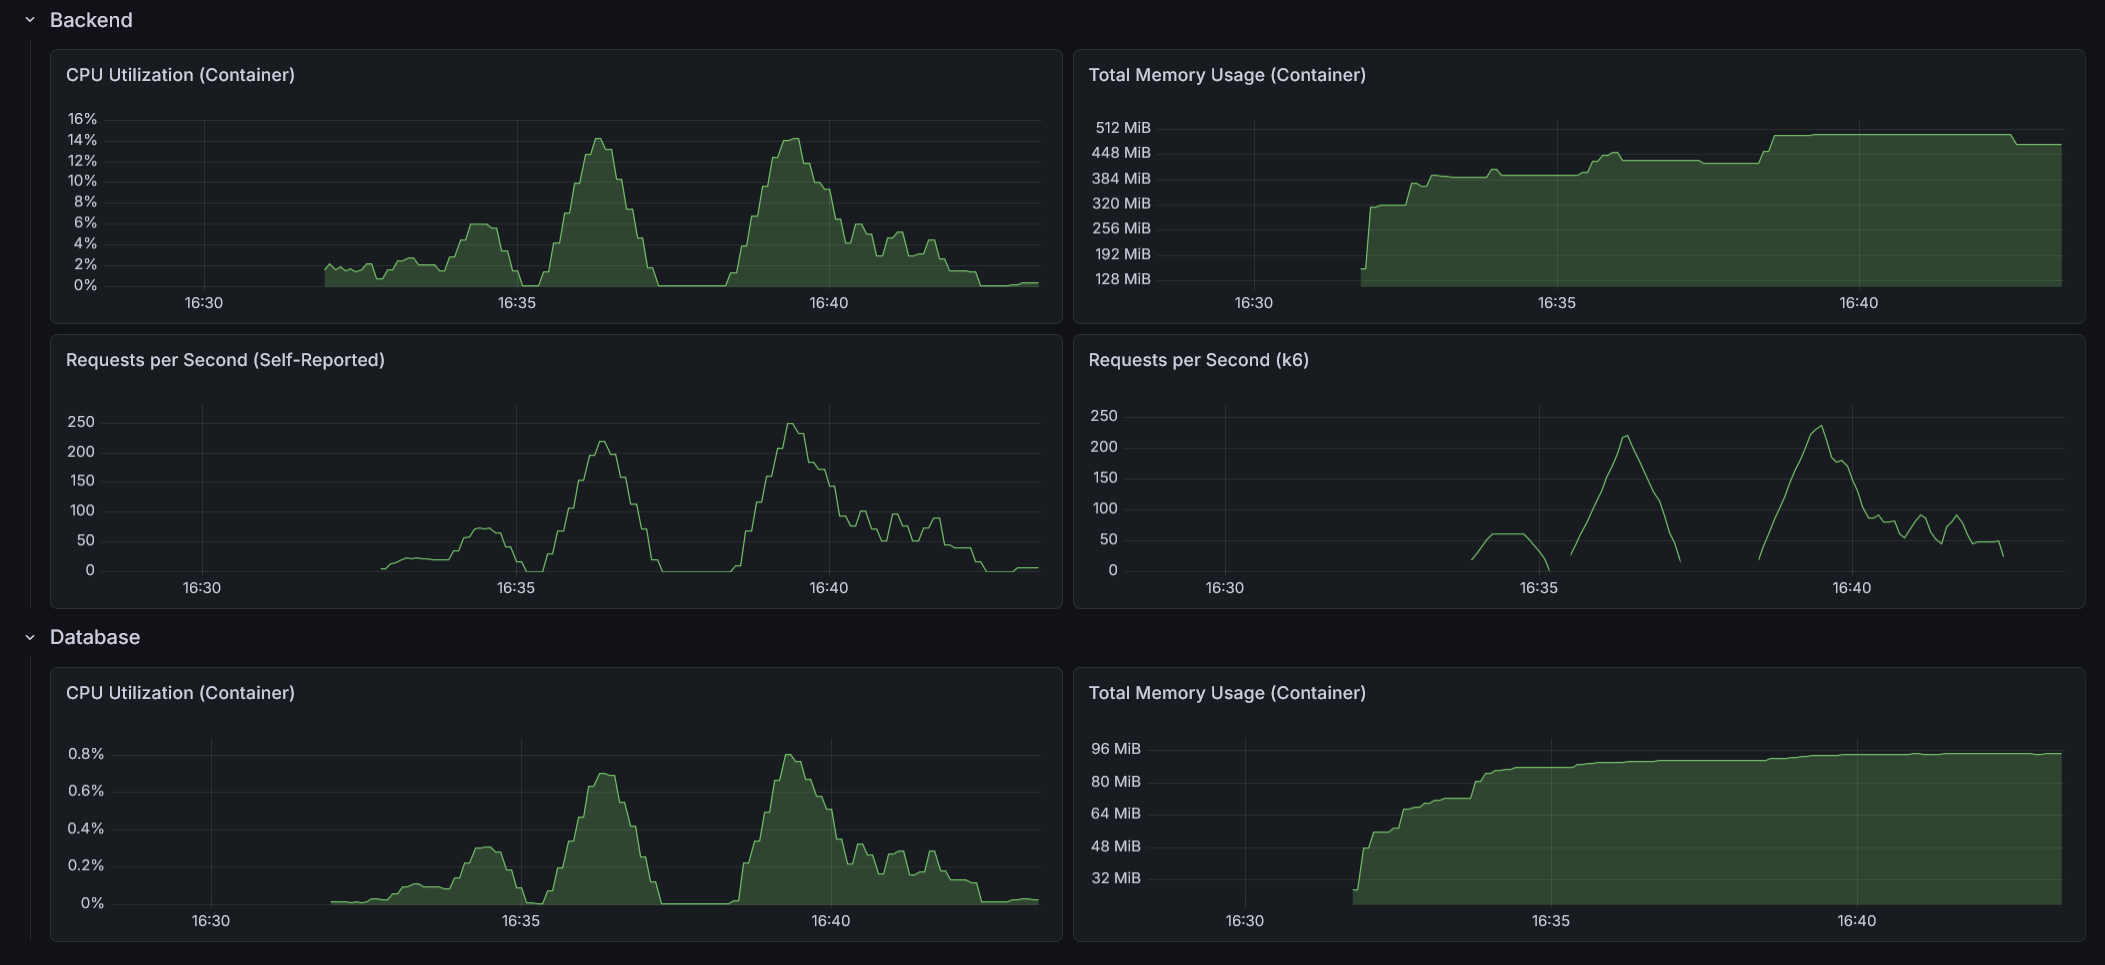
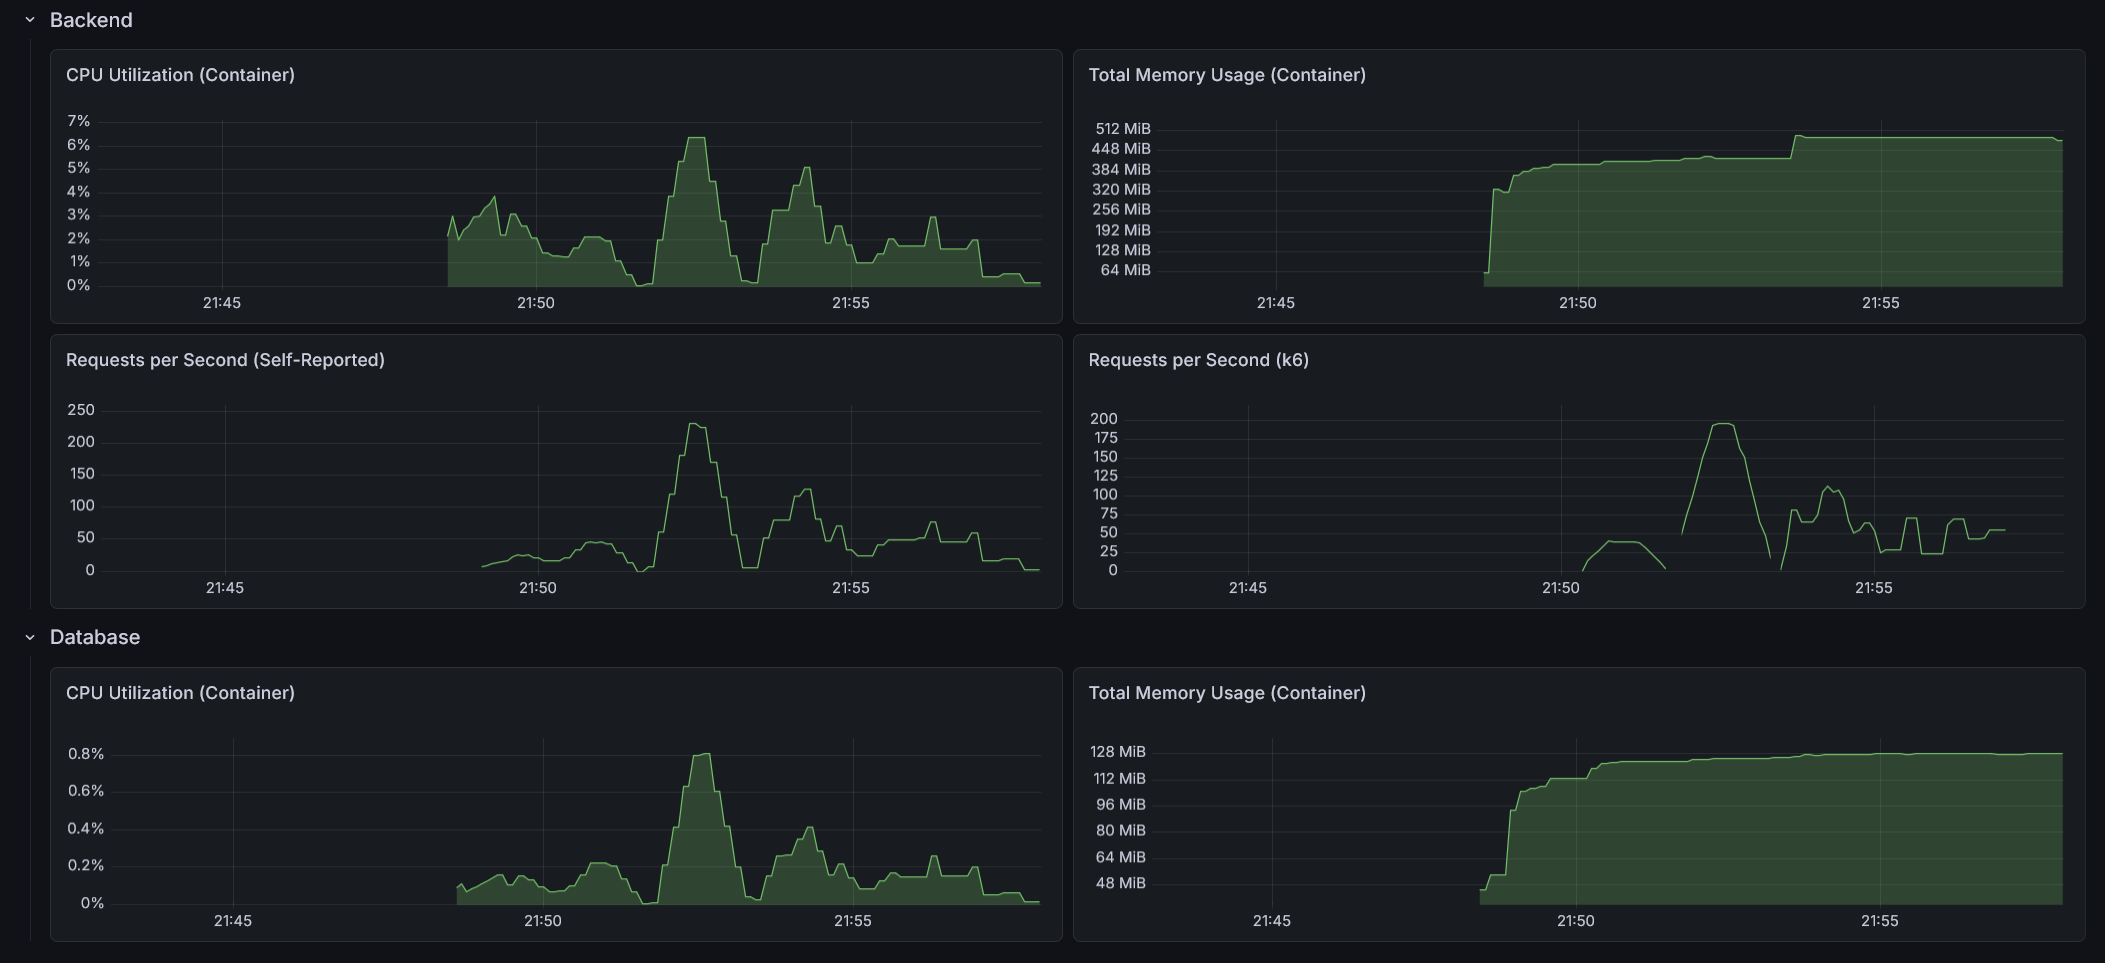
Updated performance test results

diff --git a/backend/java-springboot-vertical/README.md b/backend/java-springboot-vertical/README.md
@@ -74,12 +74,16 @@ Individual Unit and Integration tests within this module are largely derivative 
 
 ## Performance
 
+- Max CPU Utilization: 6.39%
+- Max Memory Usage: 496 MiB
+- Max Requests per Second: 232 / 197
+
 ![performance.png](performance.png)
 
 ### API test suite
 
-- On startup: 3.00s
-- After 10 warm-up runs: 1.34s
+- On startup: 3.3s
+- After 10 warm-up runs: 1.38s
 - After load test: 1.06s
 
 ### Load test suite
@@ -87,101 +91,105 @@ Individual Unit and Integration tests within this module are largely derivative 
 #### Light load (10 VUs / 30s)
 
     HTTP
-    http_req_duration..............: avg=24.42ms min=1.29ms  med=8.12ms  max=457.31ms p(90)=73.46ms  p(95)=101.01ms
-      { expected_response:true }...: avg=24.42ms min=1.29ms  med=8.12ms  max=457.31ms p(90)=73.46ms  p(95)=101.01ms
-      { name:AddComment }..........: avg=11.12ms min=4.59ms  med=8.05ms  max=50.4ms   p(90)=20.1ms   p(95)=28.63ms 
-      { name:CreateArticle }.......: avg=13.75ms min=5.28ms  med=9.89ms  max=91.36ms  p(90)=24.14ms  p(95)=36.78ms 
-      { name:DeleteArticle }.......: avg=8.97ms  min=3.91ms  med=7.39ms  max=35.88ms  p(90)=15.66ms  p(95)=18.15ms 
-      { name:DeleteComment }.......: avg=8.97ms  min=3.69ms  med=7.03ms  max=27.84ms  p(90)=16.59ms  p(95)=20.92ms 
-      { name:FavoriteArticle }.....: avg=11.3ms  min=4.37ms  med=8.13ms  max=44.25ms  p(90)=21.04ms  p(95)=27.72ms 
-      { name:FollowUser }..........: avg=7.91ms  min=3.31ms  med=5.97ms  max=27.81ms  p(90)=13.64ms  p(95)=17.74ms 
-      { name:GetArticle }..........: avg=6.12ms  min=2.32ms  med=4.38ms  max=30.18ms  p(90)=11.42ms  p(95)=15.59ms 
-      { name:GetArticlesFeed }.....: avg=4.92ms  min=1.8ms   med=3.53ms  max=22.66ms  p(90)=9.4ms    p(95)=12.5ms  
-      { name:GetComments }.........: avg=6.62ms  min=2.39ms  med=4.71ms  max=44.17ms  p(90)=11.89ms  p(95)=17.1ms  
-      { name:GetCurrentUser }......: avg=4.45ms  min=1.55ms  med=3.16ms  max=18.76ms  p(90)=7.98ms   p(95)=12.62ms 
-      { name:GetGlobalArticles }...: avg=20.13ms min=8.56ms  med=15.71ms max=75.18ms  p(90)=36.64ms  p(95)=44.08ms 
-      { name:GetTags }.............: avg=4.34ms  min=1.29ms  med=2.97ms  max=17.23ms  p(90)=8.98ms   p(95)=11.37ms 
-      { name:Login }...............: avg=94.5ms  min=60.08ms med=76.17ms max=374ms    p(90)=153.3ms  p(95)=187.71ms
-      { name:Register }............: avg=96.52ms min=62.93ms med=75.83ms max=457.31ms p(90)=151.22ms p(95)=189.38ms
-      { name:UnfavoriteArticle }...: avg=11.46ms min=4.22ms  med=8.7ms   max=45.09ms  p(90)=21.46ms  p(95)=26.56ms 
-      { name:UnfollowUser }........: avg=7.61ms  min=3.37ms  med=6.49ms  max=28.56ms  p(90)=13.08ms  p(95)=15.36ms 
-    http_req_failed................: 0.00%  0 out of 3689
-    http_reqs......................: 3689   118.022915/s
+    http_req_duration..............: avg=8.89ms  min=1.41ms  med=5.9ms   max=233.01ms p(90)=12.5ms  p(95)=19.17ms 
+      { expected_response:true }...: avg=8.89ms  min=1.41ms  med=5.9ms   max=233.01ms p(90)=12.46ms p(95)=19.18ms 
+      { name:AddComment }..........: avg=8.88ms  min=5.02ms  med=7.02ms  max=46.56ms  p(90)=12.13ms p(95)=15.75ms 
+      { name:CreateArticle }.......: avg=12.16ms min=6.65ms  med=8.88ms  max=149.53ms p(90)=13.83ms p(95)=16.92ms 
+      { name:DeleteArticle }.......: avg=7.13ms  min=4.07ms  med=5.64ms  max=25.13ms  p(90)=11.81ms p(95)=14.11ms 
+      { name:DeleteComment }.......: avg=6.64ms  min=4.21ms  med=5.51ms  max=24.61ms  p(90)=10.46ms p(95)=11.94ms 
+      { name:FavoriteArticle }.....: avg=8.5ms   min=5.27ms  med=6.94ms  max=33.49ms  p(90)=12.57ms p(95)=16.68ms 
+      { name:FollowUser }..........: avg=6.41ms  min=3.68ms  med=5.39ms  max=30.85ms  p(90)=8.62ms  p(95)=11.07ms 
+      { name:GetArticle }..........: avg=4.5ms   min=2.24ms  med=3.8ms   max=29.16ms  p(90)=6.05ms  p(95)=7.71ms  
+      { name:GetArticlesFeed }.....: avg=3.8ms   min=2.22ms  med=3.07ms  max=22.17ms  p(90)=5.53ms  p(95)=7.89ms  
+      { name:GetComments }.........: avg=5.12ms  min=2.74ms  med=3.95ms  max=25.72ms  p(90)=7.87ms  p(95)=10.33ms 
+      { name:GetCurrentUser }......: avg=3.71ms  min=2.16ms  med=2.62ms  max=11.83ms  p(90)=6.26ms  p(95)=9.16ms  
+      { name:GetGlobalArticles }...: avg=12.61ms min=7.78ms  med=9.76ms  max=83.54ms  p(90)=18.33ms p(95)=23.01ms 
+      { name:GetProfile }..........: avg=3.84ms  min=2ms     med=3.26ms  max=11.12ms  p(90)=5.97ms  p(95)=7.55ms  
+      { name:GetTags }.............: avg=3.05ms  min=1.41ms  med=2.38ms  max=23.21ms  p(90)=5.01ms  p(95)=5.75ms  
+      { name:Login }...............: avg=70.1ms  min=62.57ms med=64.35ms max=167.89ms p(90)=76.32ms p(95)=82.88ms 
+      { name:Register }............: avg=76.18ms min=65ms    med=67.45ms max=233.01ms p(90)=87.99ms p(95)=100.65ms
+      { name:UnfavoriteArticle }...: avg=8.43ms  min=5.26ms  med=7.07ms  max=24.46ms  p(90)=13.23ms p(95)=14.93ms 
+      { name:UnfollowUser }........: avg=6.01ms  min=3.67ms  med=5.23ms  max=17.32ms  p(90)=8.75ms  p(95)=11.23ms 
+    http_req_failed................: 0.08%  2 out of 2345
+    http_reqs......................: 2345   73.927401/s
 
     EXECUTION
-    iteration_duration.............: avg=1.41s   min=1.25s   med=1.36s   max=2.16s    p(90)=1.64s    p(95)=1.73s   
-    iterations.....................: 217    6.942524/s
-    vus............................: 2      min=2         max=10
+    iteration_duration.............: avg=1.07s   min=1s      med=1.06s   max=1.35s    p(90)=1.1s    p(95)=1.14s   
+    iterations.....................: 285    8.98478/s
+    vus............................: 8      min=8         max=10
     vus_max........................: 10     min=10        max=10
 
     NETWORK
-    data_received..................: 2.9 MB 93 kB/s
-    data_sent......................: 962 kB 31 kB/s
+    data_received..................: 1.9 MB 58 kB/s
+    data_sent......................: 640 kB 20 kB/s
 
 #### Medium load (50 VUs / 1m)
 
     HTTP
-    http_req_duration..............: avg=172.84ms min=790.63µs med=123.95ms max=2.05s    p(90)=410.96ms p(95)=537.57ms
-      { expected_response:true }...: avg=172.84ms min=790.63µs med=123.95ms max=2.05s    p(90)=410.96ms p(95)=537.57ms
-      { name:AddComment }..........: avg=151.25ms min=3.02ms   med=118.55ms max=725.11ms p(90)=347.73ms p(95)=418.32ms
-      { name:CreateArticle }.......: avg=191.86ms min=3.97ms   med=155.17ms max=1s       p(90)=426.41ms p(95)=535.71ms
-      { name:DeleteArticle }.......: avg=108.38ms min=2.47ms   med=83.44ms  max=723.3ms  p(90)=252.58ms p(95)=319.97ms
-      { name:DeleteComment }.......: avg=114.29ms min=2.47ms   med=87.06ms  max=1s       p(90)=270.48ms p(95)=336.96ms
-      { name:FavoriteArticle }.....: avg=120.35ms min=2.8ms    med=93.11ms  max=874.19ms p(90)=269.62ms p(95)=333.63ms
-      { name:FollowUser }..........: avg=95.31ms  min=2.24ms   med=72.67ms  max=740.28ms p(90)=225.56ms p(95)=278.37ms
-      { name:GetArticle }..........: avg=131.24ms min=1.3ms    med=93.92ms  max=1.05s    p(90)=331.98ms p(95)=426.1ms 
-      { name:GetArticlesFeed }.....: avg=109.14ms min=994.44µs med=85.21ms  max=849.81ms p(90)=266.34ms p(95)=340.84ms
-      { name:GetComments }.........: avg=109.34ms min=1.3ms    med=74.83ms  max=1.08s    p(90)=263.99ms p(95)=368.28ms
-      { name:GetCurrentUser }......: avg=181.51ms min=863.84µs med=127.44ms max=1.06s    p(90)=443.61ms p(95)=619.8ms 
-      { name:GetGlobalArticles }...: avg=136.27ms min=7.15ms   med=115.16ms max=582.88ms p(90)=292.85ms p(95)=365.65ms
-      { name:GetTags }.............: avg=94.72ms  min=790.63µs med=73.38ms  max=624.05ms p(90)=238.13ms p(95)=296.68ms
-      { name:Login }...............: avg=397.52ms min=61.28ms  med=346.58ms max=1.92s    p(90)=719.39ms p(95)=893.28ms
-      { name:Register }............: avg=393.08ms min=63.06ms  med=333.33ms max=2.05s    p(90)=656.63ms p(95)=841.44ms
-      { name:UnfavoriteArticle }...: avg=110.9ms  min=3.12ms   med=89.85ms  max=969.25ms p(90)=248.05ms p(95)=315.3ms 
-      { name:UnfollowUser }........: avg=100.09ms min=2.02ms   med=58.41ms  max=1.02s    p(90)=246.72ms p(95)=348.78ms
-    http_req_failed................: 0.00%  0 out of 13328
-    http_reqs......................: 13328  213.881685/s
+    http_req_duration..............: avg=123.5ms  min=813.35µs med=6.13ms  max=25.07s   p(90)=36.64ms  p(95)=72.44ms 
+      { expected_response:true }...: avg=123.68ms min=813.35µs med=6.12ms  max=25.07s   p(90)=36.49ms  p(95)=72.26ms 
+      { name:AddComment }..........: avg=18.47ms  min=3.11ms   med=7.01ms  max=334.56ms p(90)=32.25ms  p(95)=71.16ms 
+      { name:CreateArticle }.......: avg=678.66ms min=4.25ms   med=8.71ms  max=25.07s   p(90)=44.82ms  p(95)=833.81ms
+      { name:DeleteArticle }.......: avg=10.71ms  min=2.54ms   med=5.82ms  max=167.09ms p(90)=23.6ms   p(95)=33.27ms 
+      { name:DeleteComment }.......: avg=11.1ms   min=2.49ms   med=5.57ms  max=161.84ms p(90)=23.28ms  p(95)=34.58ms 
+      { name:FavoriteArticle }.....: avg=14.73ms  min=3.16ms   med=7.23ms  max=343.78ms p(90)=31.32ms  p(95)=50.03ms 
+      { name:FollowUser }..........: avg=12.72ms  min=1.86ms   med=4.99ms  max=296.5ms  p(90)=18.92ms  p(95)=33.39ms 
+      { name:GetArticle }..........: avg=12.09ms  min=1.35ms   med=3.86ms  max=367.19ms p(90)=20.79ms  p(95)=50.31ms 
+      { name:GetArticlesFeed }.....: avg=35.33ms  min=1.09ms   med=3.05ms  max=25.07s   p(90)=13.09ms  p(95)=20.26ms 
+      { name:GetComments }.........: avg=11.24ms  min=1.53ms   med=3.82ms  max=286.15ms p(90)=20.13ms  p(95)=47.97ms 
+      { name:GetCurrentUser }......: avg=9.31ms   min=949.65µs med=2.38ms  max=221.81ms p(90)=12.61ms  p(95)=39.94ms 
+      { name:GetGlobalArticles }...: avg=16.44ms  min=4.67ms   med=10.06ms max=144.86ms p(90)=34.86ms  p(95)=50.71ms 
+      { name:GetProfile }..........: avg=335.6ms  min=1.09ms   med=2.99ms  max=24.97s   p(90)=11.55ms  p(95)=20.13ms 
+      { name:GetTags }.............: avg=5.5ms    min=813.35µs med=2.47ms  max=107.58ms p(90)=11.64ms  p(95)=17.26ms 
+      { name:Login }...............: avg=794.35ms min=60.85ms  med=75.23ms max=24.98s   p(90)=243.91ms p(95)=1.06s   
+      { name:Register }............: avg=726.99ms min=63.41ms  med=71.1ms  max=24.78s   p(90)=147.31ms p(95)=375.61ms
+      { name:UnfavoriteArticle }...: avg=13.7ms   min=3.15ms   med=7.05ms  max=211.35ms p(90)=28.03ms  p(95)=45.24ms 
+      { name:UnfollowUser }........: avg=10.19ms  min=2ms      med=4.95ms  max=182.38ms p(90)=13.64ms  p(95)=23.73ms 
+    http_req_failed................: 0.20%  24 out of 11925
+    http_reqs......................: 11925  174.507771/s
 
     EXECUTION
-    iteration_duration.............: avg=3.94s    min=1.25s    med=3.97s    max=5.89s    p(90)=4.73s    p(95)=5.03s   
-    iterations.....................: 784    12.581276/s
-    vus............................: 25     min=25         max=50
-    vus_max........................: 50     min=50         max=50
+    iteration_duration.............: avg=1.77s    min=1s       med=1.06s   max=26.49s   p(90)=1.25s    p(95)=2.1s    
+    iterations.....................: 1896   27.745638/s
+    vus............................: 46     min=46          max=50
+    vus_max........................: 50     min=50          max=50
 
     NETWORK
-    data_received..................: 10 MB  165 kB/s
-    data_sent......................: 3.5 MB 56 kB/s
+    data_received..................: 9.4 MB 138 kB/s
+    data_sent......................: 3.2 MB 47 kB/s
 
 #### Heavy load (200 VUs / 3m)
 
     HTTP
-    http_req_duration..............: avg=1.46s  min=722.72µs med=703.25ms max=29.09s p(90)=1.8s   p(95)=2.67s 
-      { expected_response:true }...: avg=1.46s  min=722.72µs med=703.25ms max=29.09s p(90)=1.8s   p(95)=2.67s 
-      { name:AddComment }..........: avg=1.33s  min=2.72ms   med=681.02ms max=28.03s p(90)=1.73s  p(95)=2.37s 
-      { name:CreateArticle }.......: avg=1.61s  min=3.25ms   med=751.82ms max=27.39s p(90)=1.98s  p(95)=2.98s 
-      { name:DeleteArticle }.......: avg=1.21s  min=1.97ms   med=620.47ms max=27.82s p(90)=1.53s  p(95)=2.01s 
-      { name:DeleteComment }.......: avg=1.3s   min=2.18ms   med=605.1ms  max=27.4s  p(90)=1.56s  p(95)=2.13s 
-      { name:FavoriteArticle }.....: avg=1.33s  min=2.7ms    med=638.04ms max=28.09s p(90)=1.56s  p(95)=2.13s 
-      { name:FollowUser }..........: avg=1.28s  min=1.37ms   med=650.35ms max=28.08s p(90)=1.71s  p(95)=2.3s  
-      { name:GetArticle }..........: avg=1.42s  min=1.22ms   med=658.48ms max=28s    p(90)=1.6s   p(95)=2.34s 
-      { name:GetArticlesFeed }.....: avg=1.28s  min=889.93µs med=674.36ms max=27.29s p(90)=1.75s  p(95)=2.34s 
-      { name:GetComments }.........: avg=1.06s  min=1.32ms   med=598.09ms max=27.79s p(90)=1.52s  p(95)=1.93s 
-      { name:GetCurrentUser }......: avg=1.49s  min=826.03µs med=740.79ms max=28.66s p(90)=1.97s  p(95)=2.83s 
-      { name:GetGlobalArticles }...: avg=1.35s  min=10.04ms  med=698.71ms max=27.7s  p(90)=1.59s  p(95)=2.24s 
-      { name:GetTags }.............: avg=1.27s  min=722.72µs med=637.94ms max=28.86s p(90)=1.58s  p(95)=2.13s 
-      { name:Login }...............: avg=1.89s  min=66.21ms  med=941.63ms max=27.62s p(90)=2.65s  p(95)=4.37s 
-      { name:Register }............: avg=2.37s  min=68.2ms   med=986.88ms max=29.09s p(90)=2.87s  p(95)=15.63s
-      { name:UnfavoriteArticle }...: avg=1.15s  min=2.89ms   med=591.74ms max=28.26s p(90)=1.54s  p(95)=1.92s 
-      { name:UnfollowUser }........: avg=1.19s  min=1.75ms   med=680.61ms max=27.83s p(90)=1.64s  p(95)=2.2s  
-    http_req_failed................: 0.00%  0 out of 24616
-    http_reqs......................: 24616  129.399591/s
+    http_req_duration..............: avg=2.78s  min=765.64µs med=327.26ms max=39.09s p(90)=1.01s    p(95)=34.89s  
+      { expected_response:true }...: avg=2.71s  min=765.64µs med=326.64ms max=39.09s p(90)=995.46ms p(95)=34.86s  
+      { name:AddComment }..........: avg=1.54s  min=2.89ms   med=309.37ms max=35.78s p(90)=808.61ms p(95)=1.05s   
+      { name:CreateArticle }.......: avg=6.35s  min=3.47ms   med=414.6ms  max=38.63s p(90)=34.92s   p(95)=35.67s  
+      { name:DeleteArticle }.......: avg=1.58s  min=2.41ms   med=276.39ms max=38.66s p(90)=794.37ms p(95)=1.16s   
+      { name:DeleteComment }.......: avg=2.03s  min=2.74ms   med=278.67ms max=38.1s  p(90)=778.64ms p(95)=20.45s  
+      { name:FavoriteArticle }.....: avg=1.44s  min=3.95ms   med=291.76ms max=38.04s p(90)=744.64ms p(95)=982.29ms
+      { name:FollowUser }..........: avg=1.49s  min=1.37ms   med=300.28ms max=38.69s p(90)=803.52ms p(95)=1.12s   
+      { name:GetArticle }..........: avg=1.71s  min=1.32ms   med=315.79ms max=38.66s p(90)=776.44ms p(95)=1.12s   
+      { name:GetArticlesFeed }.....: avg=1.36s  min=1.04ms   med=272.84ms max=38.27s p(90)=773.97ms p(95)=973.31ms
+      { name:GetComments }.........: avg=2.01s  min=1.31ms   med=261.74ms max=38.27s p(90)=817.87ms p(95)=20.44s  
+      { name:GetCurrentUser }......: avg=1.6s   min=1.05ms   med=294.79ms max=39.08s p(90)=809.3ms  p(95)=1.15s   
+      { name:GetGlobalArticles }...: avg=1.97s  min=7.4ms    med=299.92ms max=38.69s p(90)=817.08ms p(95)=16.68s  
+      { name:GetProfile }..........: avg=5.35s  min=1.09ms   med=353.9ms  max=38.43s p(90)=34.82s   p(95)=35.6s   
+      { name:GetTags }.............: avg=1.3s   min=765.64µs med=255.65ms max=39.09s p(90)=749.18ms p(95)=962.15ms
+      { name:Login }...............: avg=7.47s  min=85.74ms  med=618.93ms max=39s    p(90)=35.45s   p(95)=35.84s  
+      { name:Register }............: avg=7.03s  min=62.96ms  med=567.53ms max=38.33s p(90)=35.12s   p(95)=35.88s  
+      { name:UnfavoriteArticle }...: avg=1.76s  min=3.14ms   med=286.89ms max=38.7s  p(90)=779.75ms p(95)=1.15s   
+      { name:UnfollowUser }........: avg=1.72s  min=2.12ms   med=300.07ms max=38.66s p(90)=771.25ms p(95)=1.29s   
+    http_req_failed................: 0.36%  48 out of 13226
+    http_reqs......................: 13226  65.979204/s
 
     EXECUTION
-    iteration_duration.............: avg=25.97s min=5.25s    med=19.25s   max=1m11s  p(90)=49.05s p(95)=1m2s  
-    iterations.....................: 1448   7.611741/s
-    vus............................: 25     min=25         max=200
-    vus_max........................: 200    min=200        max=200
+    iteration_duration.............: avg=13.35s min=1s       med=2.78s    max=1m20s  p(90)=38.72s   p(95)=39.9s   
+    iterations.....................: 2981   14.871012/s
+    vus............................: 115    min=115         max=200
+    vus_max........................: 200    min=200         max=200
 
     NETWORK
-    data_received..................: 19 MB  99 kB/s
-    data_sent......................: 6.4 MB 34 kB/s
+    data_received..................: 11 MB  52 kB/s
+    data_sent......................: 3.6 MB 18 kB/s
+
